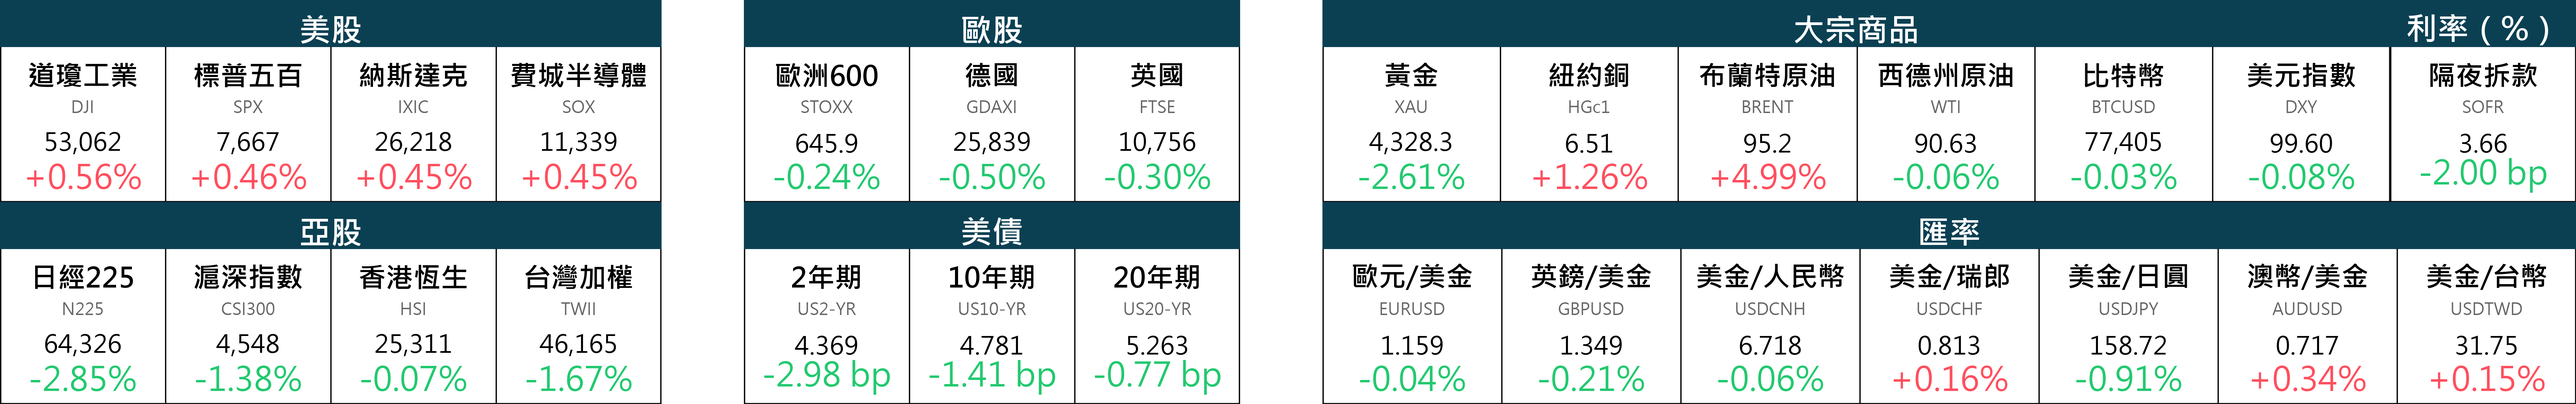
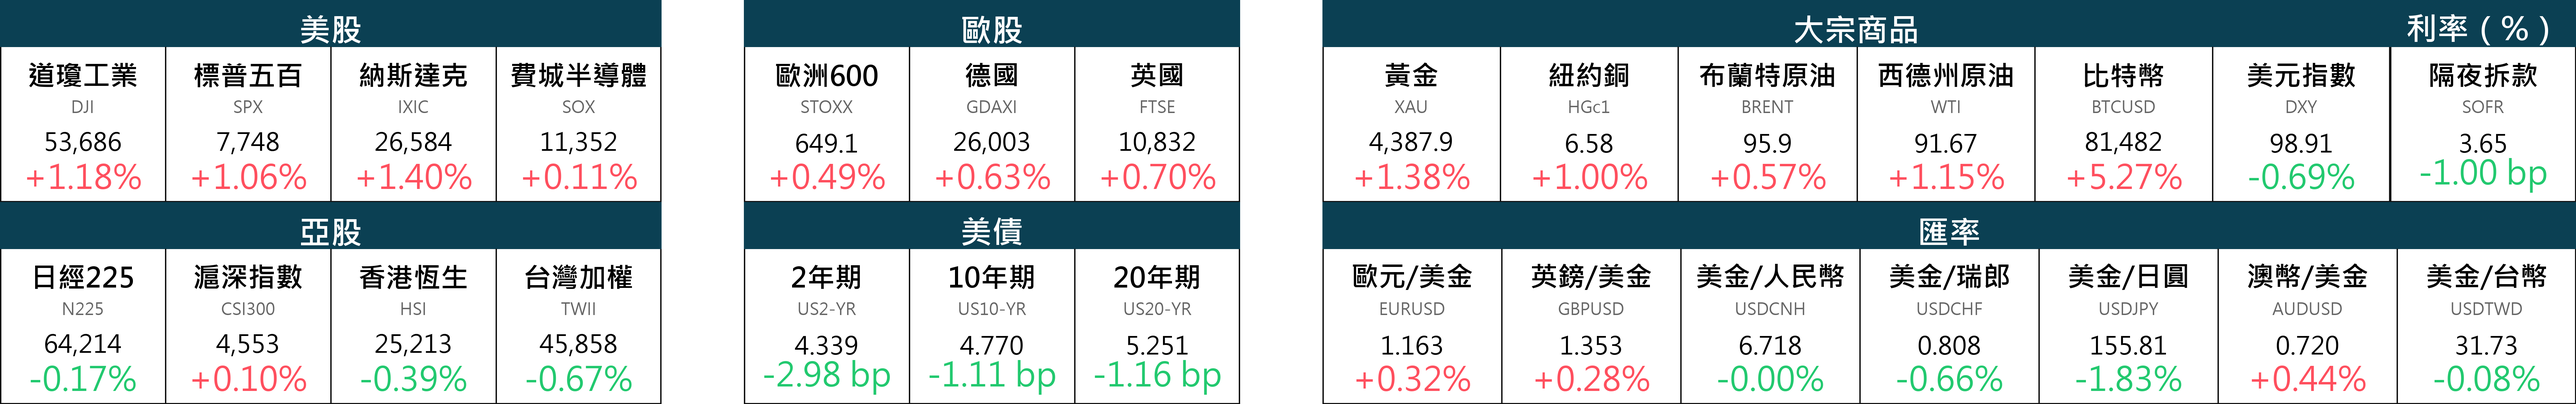
Publish partial market update 2026-09-04

diff --git a/downloads.html b/downloads.html
@@ -44,6 +44,7 @@ button.button{cursor:pointer;font-family:inherit}
 </style>
 </head>
 <body>
+<div role="status" style="padding:10px 20px;background:#5b4714;border-bottom:1px solid #b9912f;color:#fff3c4;font-size:13px;line-height:1.5"><strong>部分發布｜2026-09-04</strong>：市場總覽已更新至 2026-09-03；排名、目標價及回測資料仍使用上一個完整版本（資料日至 2026-09-02）。完整更新成功後將自動取代本提示。</div>
 <header>
   <h1>Image Downloads</h1>
   <nav>
@@ -55,7 +56,7 @@ button.button{cursor:pointer;font-family:inherit}
 </header>
 <main>
   <div class="topbar">
-    <div class="stamp">Market overview data date: <strong>2026-09-02</strong></div>
+    <div class="stamp">Market overview data date: <strong>2026-09-03</strong></div>
     <div class="manual-update">
       <button id="marketUpdateBtn" class="button" type="button">Update Market Overview</button>
       <button id="fullUpdateBtn" class="button secondary" type="button">Full Daily Update</button>
@@ -63,20 +64,13 @@ button.button{cursor:pointer;font-family:inherit}
     </div>
   </div>
 
-  <section id="overviewStatusPanel" class="status-panel partial">
+  <section id="overviewStatusPanel" class="status-panel ready">
     <div>
-      <div id="overviewStatusTitle" class="status-title">Market overview status: Partial</div>
-      <div id="overviewStatusDetail" class="status-detail">Expected data date: <strong>2026-09-02</strong>. Current coverage: <strong>1 stale</strong>.</div>
+      <div id="overviewStatusTitle" class="status-title">Market overview status: Ready</div>
+      <div id="overviewStatusDetail" class="status-detail">Expected data date: <strong>2026-09-03</strong>. Current coverage: <strong>complete</strong>.</div>
     </div>
-    <div id="overviewStatusMessage" class="status-detail">Some market overview instruments are stale or missing.</div>
-    <div id="overviewStatusDynamic">
-      <details id="overviewDetails">
-        <summary>Show stale or missing instruments</summary>
-        <table class="status-table">
-          <thead><tr><th>Name</th><th>RIC</th><th>Latest date</th><th>Status</th></tr></thead>
-          <tbody id="overviewStatusRows"><tr><td>布伦特原油</td><td>BRENT</td><td>2026-09-01</td><td>Stale</td></tr></tbody>
-        </table>
-      </details></div>
+    <div id="overviewStatusMessage" class="status-detail">All market overview instruments are current.</div>
+    <div id="overviewStatusDynamic"><div class="status-detail">All market overview instruments are current.</div></div>
   </section>
   <section class="grid">
 
@@ -102,7 +96,7 @@ button.button{cursor:pointer;font-family:inherit}
         <div class="card-body">
           <div class="eyebrow">Market Overview</div>
           <h2>Market Overview</h2>
-          <div class="meta"><span>簡體整張</span><span>397 KB</span><span class="partial" data-overview-badge="1">Partial</span></div>
+          <div class="meta"><span>簡體整張</span><span>388 KB</span><span class="ready" data-overview-badge="1">Ready</span></div>
           <div class="actions">
             <a class="button" href="market_overview.png" download>Download</a>
             <a class="button secondary" href="market_overview.png" target="_blank" rel="noopener">Open</a>
@@ -117,7 +111,7 @@ button.button{cursor:pointer;font-family:inherit}
         <div class="card-body">
           <div class="eyebrow">繁體版</div>
           <h2>市場總覽</h2>
-          <div class="meta"><span>繁體整張</span><span>398 KB</span><span class="partial" data-overview-badge="1">Partial</span></div>
+          <div class="meta"><span>繁體整張</span><span>390 KB</span><span class="ready" data-overview-badge="1">Ready</span></div>
           <div class="actions">
             <a class="button" href="market_overview_tw.png" download>Download</a>
             <a class="button secondary" href="market_overview_tw.png" target="_blank" rel="noopener">Open</a>

diff --git a/index.html b/index.html
@@ -18,6 +18,7 @@ nav{display:flex;gap:8px;align-items:center}nav a{padding:6px 10px;border:1px so
 </style>
 </head>
 <body>
+<div role="status" style="padding:10px 20px;background:#5b4714;border-bottom:1px solid #b9912f;color:#fff3c4;font-size:13px;line-height:1.5"><strong>部分發布｜2026-09-04</strong>：市場總覽已更新至 2026-09-03；排名、目標價及回測資料仍使用上一個完整版本（資料日至 2026-09-02）。完整更新成功後將自動取代本提示。</div>
 <header>
   <h1 id="title">多市場報酬與波動排名</h1>
   <nav><a class="active" href="index.html">排名頁</a><a href="hsp.html">HSP</a><a href="tp.html">TP</a><a href="downloads.html">Images</a></nav>

diff --git a/tp.html b/tp.html
@@ -16,6 +16,7 @@ h1{margin:0;font-size:20px;font-weight:650}.meta{font-size:15px;color:#dbe2f5}.m
 </style>
 </head>
 <body>
+<div role="status" style="padding:10px 20px;background:#5b4714;border-bottom:1px solid #b9912f;color:#fff3c4;font-size:13px;line-height:1.5"><strong>部分發布｜2026-09-04</strong>：市場總覽已更新至 2026-09-03；排名、目標價及回測資料仍使用上一個完整版本（資料日至 2026-09-02）。完整更新成功後將自動取代本提示。</div>
 <header>
   <h1 id="title">Target Price</h1>
   <nav><a href="index.html">Ranking</a><a href="hsp.html">HSP</a><a class="active" href="tp.html">TP</a><a href="downloads.html">Images</a></nav>

diff --git a/hsp.html b/hsp.html
@@ -485,6 +485,7 @@
 
 </head>
 <body>
+<div role="status" style="padding:10px 20px;background:#5b4714;border-bottom:1px solid #b9912f;color:#fff3c4;font-size:13px;line-height:1.5"><strong>部分發布｜2026-09-04</strong>：市場總覽已更新至 2026-09-03；排名、目標價及回測資料仍使用上一個完整版本（資料日至 2026-09-02）。完整更新成功後將自動取代本提示。</div>
 <header>
   <h1>HSP Calculator</h1>
   <nav>
